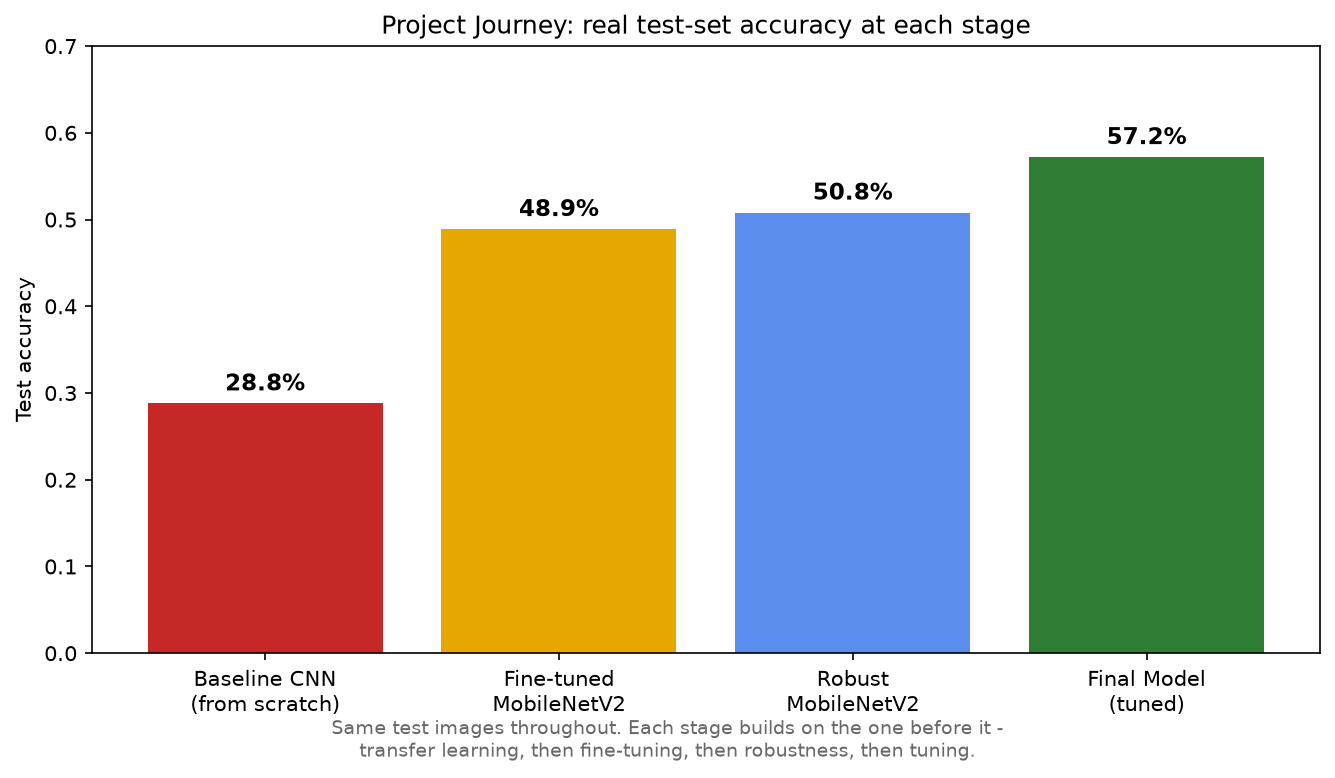
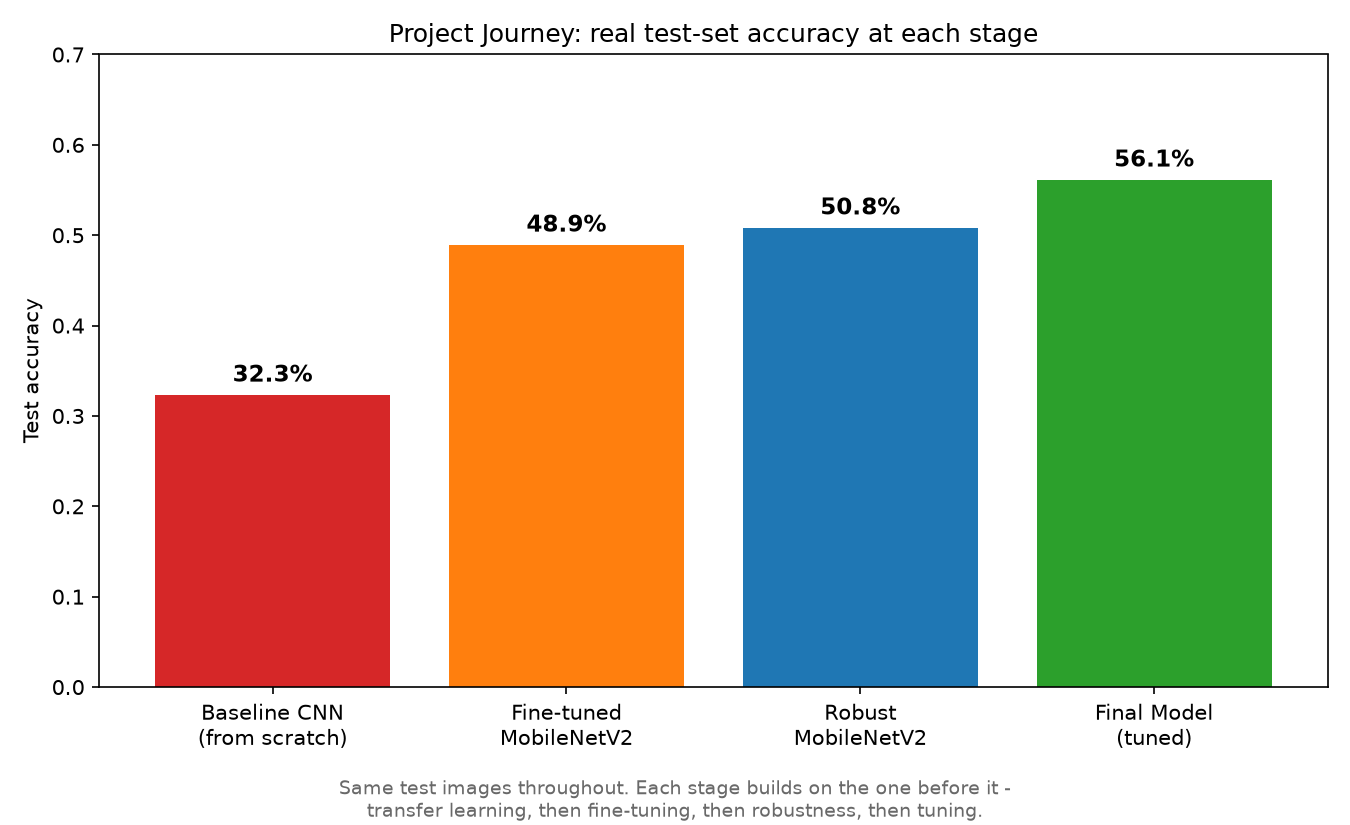
Fix stale accuracy numbers: 56.1% test acc / 90.8% top-5 (was 57.2%/91.5%)

diff --git a/app/streamlit_app.py b/app/streamlit_app.py
@@ -304,8 +304,8 @@ def render_predict_tab(model, classes, image_size, pal):
         st.header("About this model")
         st.caption(f"**final_model.pt** — MobileNetV2, tuned & fine-tuned — {image_size}×{image_size}px input")
         m1, m2 = st.columns(2)
-        m1.metric("Test accuracy", "57.2%")
-        m2.metric("Top-5 accuracy", "91.5%")
+        m1.metric("Test accuracy", "56.1%")
+        m2.metric("Top-5 accuracy", "90.8%")
         st.divider()
         st.header("Try a sample image")
         st.caption("No file to upload? Pick one already in the project.")
@@ -365,7 +365,7 @@ def render_predict_tab(model, classes, image_size, pal):
             with bc1:
                 st.markdown(
                     f"<div style='background:{color}22;border-left:6px solid {color};padding:12px;border-radius:2px'>"
-                    f"<span style='font-size:12px;color:var(--app-text-dim)'>FINAL MODEL (57.2% test acc.)</span><br>"
+                    f"<span style='font-size:12px;color:var(--app-text-dim)'>FINAL MODEL (56.1% test acc.)</span><br>"
                     f"<span style='font-size:26px;font-weight:700'>{top_class}</span>"
                     f"<span style='font-size:16px;color:{color}'>  {top_conf:.1%}</span></div>",
                     unsafe_allow_html=True,
@@ -373,7 +373,7 @@ def render_predict_tab(model, classes, image_size, pal):
             with bc2:
                 st.markdown(
                     f"<div style='background:{base_color}22;border-left:6px solid {base_color};padding:12px;border-radius:2px'>"
-                    f"<span style='font-size:12px;color:var(--app-text-dim)'>BASELINE (28.8% test acc.)</span><br>"
+                    f"<span style='font-size:12px;color:var(--app-text-dim)'>BASELINE (32.3% test acc.)</span><br>"
                     f"<span style='font-size:26px;font-weight:700'>{base_class}</span>"
                     f"<span style='font-size:16px;color:{base_color}'>  {base_conf:.1%}</span></div>",
                     unsafe_allow_html=True,
